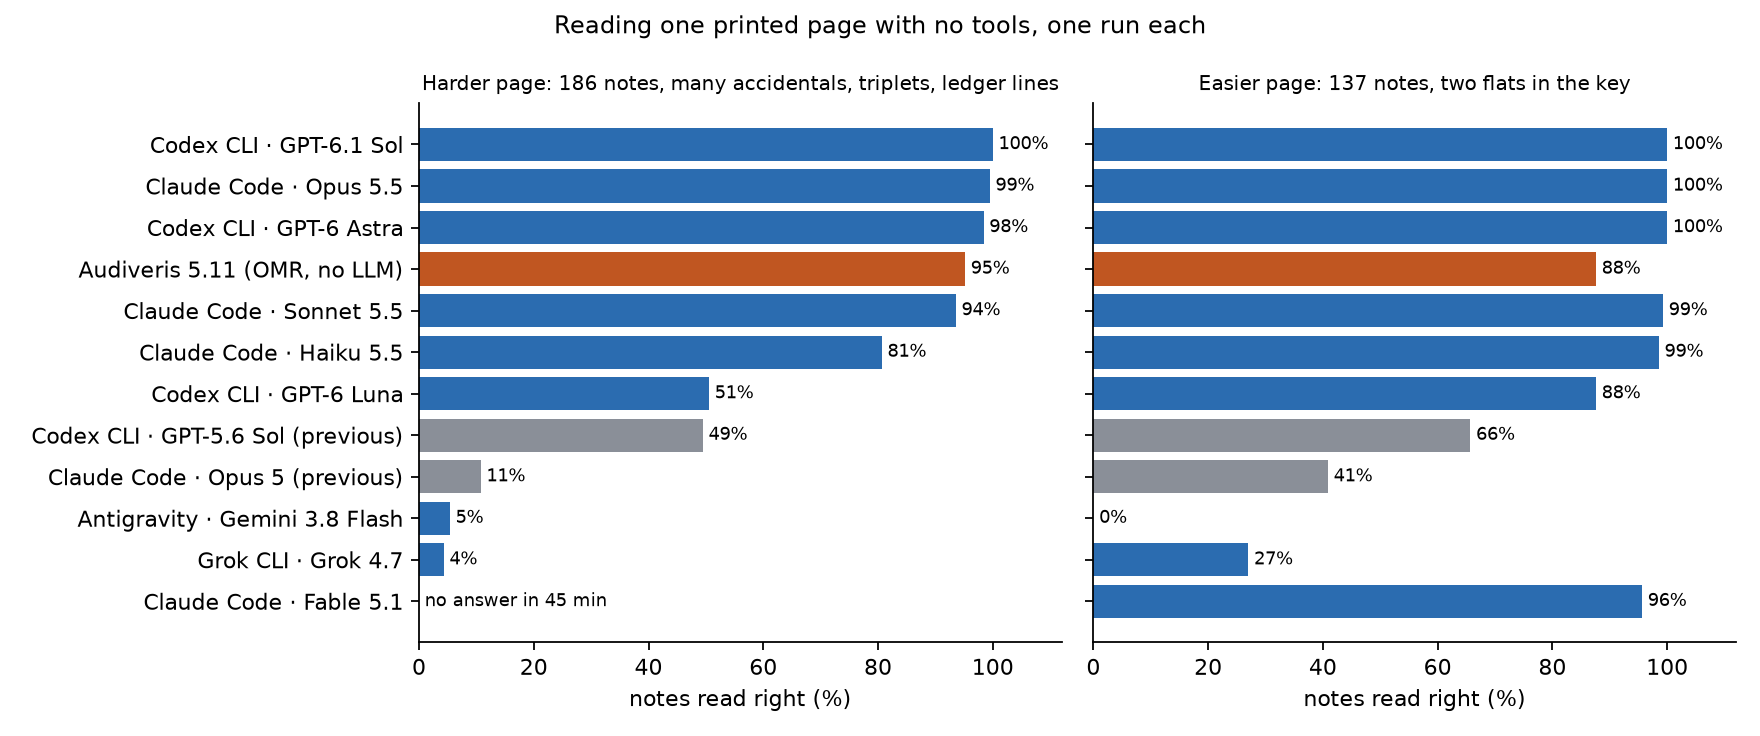
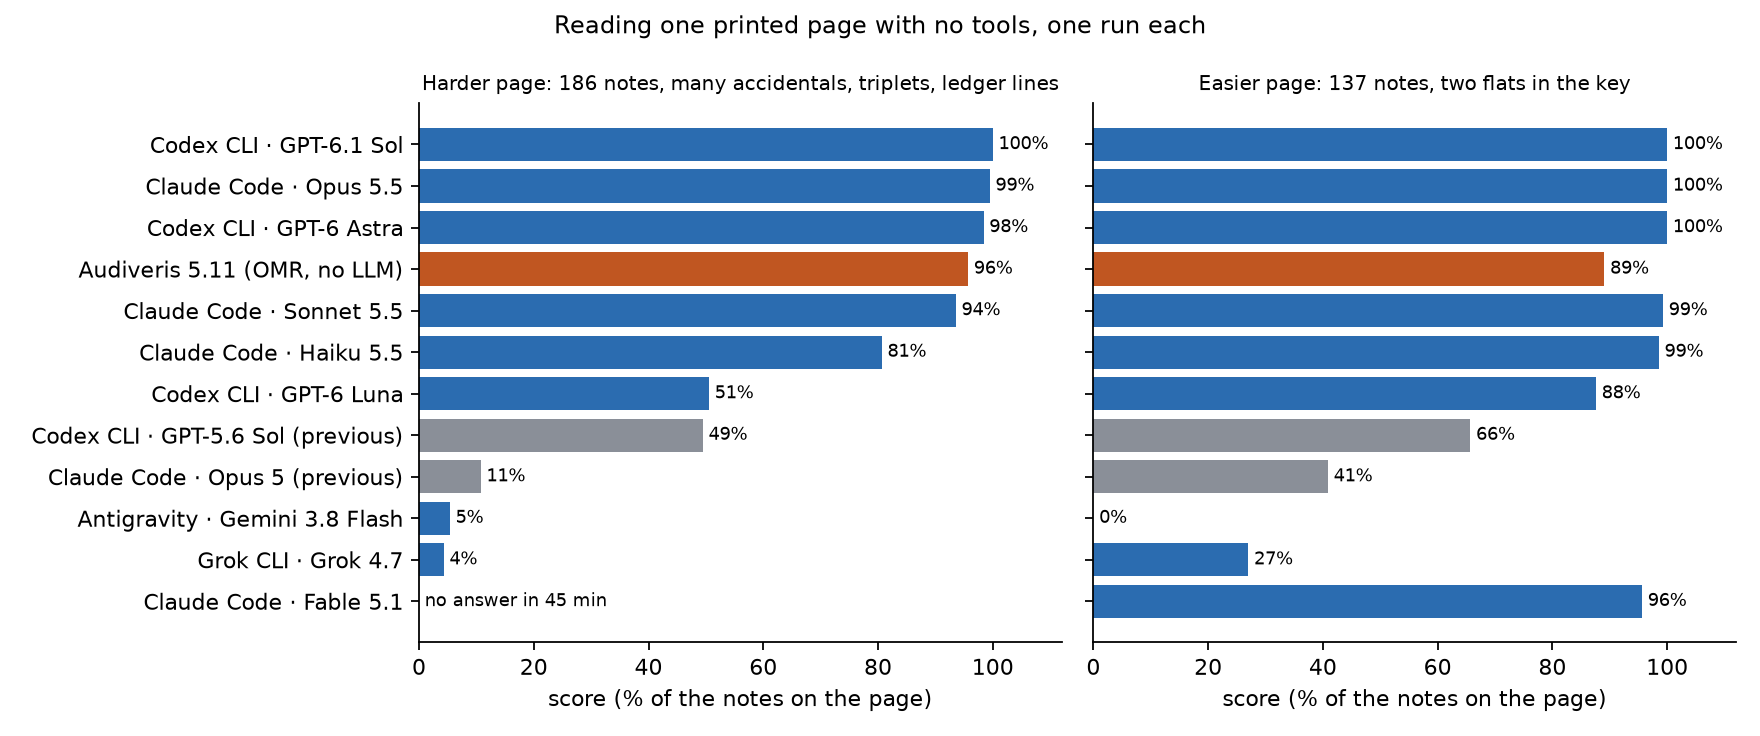
Score OMR output with 6:4 tuplets as triplets; revise the article after review
The converter used to drop any bar Audiveris wrote with a 6:4 tuplet. Those
bars are now scored (Audiveris: 178/186, 122/137, 192/199). The article states
what the score is, scopes its claims to the pages tested, and softens the
section on causes.

diff --git a/docs/make_figures.py b/docs/make_figures.py
@@ -51,7 +51,7 @@ def products_figure():
         vals = [pct(p, page) for p in order]
         bars = ax.barh([NAME[p] for p in order], [v or 0 for v in vals], color=[colour(p) for p in order])
         label_bars(ax, bars, vals, missing='no answer in 45 min')
-        ax.set_xlim(0, 112); ax.set_xlabel('notes read right (%)'); ax.set_title(title, fontsize=9)
+        ax.set_xlim(0, 112); ax.set_xlabel('score (% of the notes on the page)'); ax.set_title(title, fontsize=9)
         ax.spines[['top', 'right']].set_visible(False)
     fig.suptitle('Reading one printed page with no tools, one run each', fontsize=11)
     fig.tight_layout(); fig.savefig(OUT / 'products.png', dpi=160); plt.close(fig)
@@ -72,7 +72,7 @@ def generations_figure():
         ax.set_title(cli, fontsize=10)
         ax.legend(frameon=False, fontsize=9, loc='upper center', bbox_to_anchor=(0.5, -0.1), ncol=2)
         ax.spines[['top', 'right']].set_visible(False)
-    axes[0].set_ylabel('notes read right (%)')
+    axes[0].set_ylabel('score (% of the notes on the page)')
     fig.suptitle('One model generation apart, same pages, same CLI', fontsize=11)
     fig.tight_layout(); fig.savefig(OUT / 'generations.png', dpi=160); plt.close(fig)
 
@@ -85,7 +85,7 @@ def paired_figure(filename, title, products, left, right, left_label, right_labe
     b = ax.barh([i - 0.2 for i in y], [v or 0 for v in rv], 0.4, color=LIGHT, label=right_label)
     label_bars(ax, a, lv); label_bars(ax, b, rv, missing=missing)
     ax.set_yticks(list(y)); ax.set_yticklabels([NAME[p] for p in products]); ax.invert_yaxis()
-    ax.set_xlim(0, 118); ax.set_xlabel('notes read right (%)'); ax.set_title(title, fontsize=10)
+    ax.set_xlim(0, 118); ax.set_xlabel('score (% of the notes on the page)'); ax.set_title(title, fontsize=10)
     ax.legend(frameon=False, fontsize=9, loc='upper center', bbox_to_anchor=(0.5, -0.22), ncol=2); ax.spines[['top', 'right']].set_visible(False)
     fig.tight_layout(); fig.savefig(OUT / filename, dpi=160); plt.close(fig)
 

diff --git a/tests/test_material.py b/tests/test_material.py
@@ -79,6 +79,28 @@ class VerifyTest(unittest.TestCase):
 
 
 class ReaderTest(unittest.TestCase):
+    def test_six_in_the_time_of_four_is_read_as_triplets(self):
+        # Audiveris exports runs of triplet eighths as 6:4; the timing equals 3:2 and must not cost the bar.
+        page = make_page('solo', 1)
+        back = read_back(page)
+        changed = 0
+        for bar in back['bars']:
+            for ev in bar['events']:
+                if ev['tmod'] == (3, 2):
+                    ev['tmod'] = (6, 4)
+                    changed += 1
+        self.assertGreater(changed, 0)
+        got = R.parse_text(to_reading_text(back))
+        self.assertEqual(got.unparsed, [])
+        self.assertEqual(score(R.parse_text(answer_text(page)), got, page.fifths)['note_errors'], 0)
+
+    def test_other_tuplets_are_still_outside_the_format(self):
+        page = make_page('solo', 1)
+        back = read_back(page)
+        ev = next(e for b in back['bars'] for e in b['events'] if e['tmod'])
+        ev['tmod'] = (5, 4)
+        self.assertEqual(len(R.parse_text(to_reading_text(back)).unparsed), 1)
+
     def test_bar_outside_the_format_becomes_an_unread_bar(self):
         page = make_page('lead', 3)
         back = read_back(page)

diff --git a/src/sheetcheck/musicxml.py b/src/sheetcheck/musicxml.py
@@ -253,7 +253,8 @@ def to_reading_text(score: dict, fifths: int | None = None) -> str:
                     continue
                 at += ev['dur']
                 if ev['tmod'] and group is None:
-                    if ev['tmod'][0] != 3:
+                    # 6:4 and 12:8 are how some programs write a run of triplets; the timing is the same as 3:2.
+                    if ev['tmod'][0] * 2 != ev['tmod'][1] * 3:
                         raise ValueError(f"tuplet {ev['tmod']} is outside the reading format")
                     toks.append('{3')
                     group, filled = True, F(0)

diff --git a/docs/article.md b/docs/article.md
@@ -1,30 +1,34 @@
 # Sheet-music reading went from 20% to 99.8% in one model generation
 
-*Draft. All numbers are from 12 October 2026, one run per cell.*
+*Three generated pages, one run each: a small measurement, not a benchmark. Numbers are from 12 October 2026. Draft.*
 
-I transcribe jazz solos into MuseScore with AI coding agents. Until this summer I worked by one rule: do not trust the model's eyes for pitches. An optical music recognition (OMR) program produced the draft, and the model only repaired it. In August a model reading a page on its own got 62 of 138 pitches right on a page where the OMR program got all 138.
+I transcribe jazz solos into MuseScore with AI coding agents. Until this summer I worked by one rule: do not trust the model's eyes for pitches. An optical music recognition (OMR) program produced the draft, and the model only repaired it. My notes from August say a model reading a page on its own got 62 of 138 pitches right, on a page where the OMR program got all 138.
 
-This month I tested that rule on pages no model can have seen before. It no longer holds.
+This month I tested that rule on pages generated on the day of the test. It no longer holds.
 
-- On three freshly generated pages (522 notes), Claude Opus 5 read 20% of the notes correctly. Opus 5.5, in the same CLI, read 99.8%. GPT-5.6 Sol read 49%; GPT-6.1 Sol read all 522.
-- The smallest current Claude model, Haiku 5.5, reads far better than the previous flagship.
-- The best current models, with no tools at all, are more accurate than the OMR program I used to rely on.
+- On three generated pages (522 notes), Claude Opus 5 scored 20%. Opus 5.5, in the same CLI, scored 99.8%. GPT-5.6 Sol scored 49%; GPT-6.1 Sol scored 100%.
+- Haiku 5.5, the smallest model in the current Claude family, scored far higher than Opus 5 on the two pages both read.
+- On these pages the best current models, only looking at the image, scored higher than the OMR program I used to rely on.
 
-![Notes read right by each product on two pages](img/products.png)
+![Score of each product on two pages](img/products.png)
 
 ## What I measured
 
-**The pages.** A script generates each page from a random seed: one melodic line in 4/4 with chord symbols, 32 bars, in the style of a jazz line (scale runs, approach notes, triplets, ties, rests). The music is in no training set and has no copyright owner. MuseScore engraves the page. A second program then reads back the MusicXML that MuseScore exports and compares it with the answer, including every accidental MuseScore chose to print, so the answer and the image cannot drift apart.
+If you don't read music: a bar is a short group of beats, a system is one row of music across the page, and the height of a note on the five lines gives its pitch.
+
+**The pages.** A script generates each page from a random seed: one melodic line in 4/4 with chord symbols, 32 bars, in the style of a jazz line (scale runs, triplets, ties, rests, many sharps and flats). The pages were made for this test, after every model here was released, so none of them can have been memorised. MuseScore, a notation program, engraves the page. A second program then reads back the MusicXML file that MuseScore exports from the engraved score and compares it with the answer, including every accidental MuseScore chose to print. That check works on MuseScore's own description of what it drew, not on the pixels.
 
 **The task.** The agent gets the page image and returns one line of text per bar: pitches, note values, ties, triplets and chord symbols. It may look at the image and do nothing else. Claude Code runs with only its file-reading tool. Codex CLI gets the image attached and a read-only sandbox. I checked the tool logs of every Claude Code and Codex run: one read of the image, or no tool use.
 
-**The score.** A note is right when its position in the bar, its pitch and its length all match. Errors are counted as an edit distance per bar, so a wrong, missing or extra note costs one. A bar the agent skipped costs all its notes.
+**The score.** A note is right when its position in the bar, its pitch and its length all match. Errors are counted as an edit distance per bar, so a wrong, missing or extra note costs one, and a skipped bar costs all its notes. The score for a page is the number of notes in the answer minus those errors, never below zero. For the weaker products this is lower than the count of notes they got right, because extra notes cost too. Pitches are worked out with the answer's key signature. Whether the agent named the key, the ties and the chord symbols are scored separately.
 
 **The products.** A "product" is a model inside its vendor's CLI, at the reasoning effort I normally use (Claude Code: xhigh, with Haiku at the CLI default; Codex CLI: max). The results describe that pair, not the model alone.
 
 Everything is one run per cell. Read small differences as noise.
 
 ## Results
+
+Score out of the notes on the page:
 
 | Product | Page A (186 notes) | Page B (137) | Page C (199) |
 |---|---|---|---|
@@ -39,25 +43,27 @@ Everything is one run per cell. Read small differences as noise.
 | Claude Code · Opus 5 (previous generation) | 20 | 56 | 30 |
 | Grok CLI · Grok 4.7 | 8 | 37 | – |
 | Antigravity · Gemini 3.8 Flash | 10 | 0 | – |
-| Audiveris 5.11 (OMR, no language model) | 177 | 120 | 190 |
+| Audiveris 5.11 (OMR, no language model) | 178 | 122 | 192 |
 
-Page A and page C are the harder kind: no key signature, many accidentals, triplets, ledger lines. Page B has two flats in the key and simpler rhythm. A dash means I did not run that cell.
+Pages A and C are the harder kind: no key signature, many accidentals, triplets, notes far above the staff. Page B has two flats in the key and simpler rhythm. A dash means I did not run that cell.
+
+Audiveris lost its points to triplets that are not on the page, missed grace notes, and the last bar of each page, which it left out.
 
 ### One generation apart
 
 ![Previous and current generation on three pages](img/generations.png)
 
-The gap shows on all three pages for both vendors. Scale alone does not explain it: Haiku 5.5 reads 81% and 99% of pages A and B, where Opus 5 reads 11% and 41%.
+The gap shows on all three pages for both pairs. Model size alone does not explain it: Haiku 5.5 scored 81% and 99% on pages A and B, where Opus 5 scored 11% and 41%.
 
-The previous-generation models read every chord symbol on all three pages. Text was never the problem. What changed is reading where a notehead sits on the staff.
+The previous-generation models read every chord symbol on all three pages, so plain text was not their problem. Their errors are in the notes.
 
 ### The errors that remain
 
-The best models now make the kind of slip a person makes when sight-reading.
+In these runs the best models' remaining errors were single wrong pitches.
 
 ![Opus 5.5 read the circled F flat as D flat](img/misread-bar8.png)
 
-Opus 5.5 made one error on page A: it read the circled F♭ as D♭, a third too low. D♭ is a chord tone of the E♭7 above it. F♭ is not.
+Opus 5.5 made one error on page A: it read the circled F♭ as D♭, a lower note. D♭ belongs to the chord printed above it (E♭7). F♭ does not.
 
 ![GPT-6 Astra read the three circled notes one step low](img/misread-bar27.png)
 
@@ -67,13 +73,13 @@ GPT-6 Astra read these three notes one step low. Neither model marked these note
 
 ![The same page at 300 dpi and at 620 pixels wide](img/lowres.png)
 
-I shrank page A to 620 pixels wide, about what a screen capture of a PDF gives you. Opus 5.5 fell to 77%, and the OMR program produced no output. The agents were not allowed to zoom here. In real work I let them crop and enlarge each system first.
+I shrank page A to a 620×877 JPEG. Opus 5.5 fell to 77%, and Audiveris exported nothing. The agents were not allowed to zoom here. In real work I let them crop and enlarge each system first.
 
 ### A handwritten-style font
 
 ![Default font and handwritten-style font](img/font.png)
 
-To see whether the models had only learned one engraving style, I re-engraved pages A and B with MuseScore's MuseJazz style, which imitates handwriting. The notes are identical. GPT-6.1 Sol still read every note on both pages. Opus 5.5 dropped from 185 to 168 on page A and from 137 to 136 on page B. The OMR program fell apart completely.
+To see whether the models had only learned one engraving style, I re-engraved pages A and B with MuseScore's MuseJazz style, which imitates handwriting. The notes are identical. GPT-6.1 Sol again scored 100% on both pages. Opus 5.5 dropped from 185 to 168 on page A and from 137 to 136 on page B. Audiveris got no bar right on either page.
 
 This is a font, not handwriting. I did not test real handwritten scores.
 
@@ -81,12 +87,12 @@ This is a font, not handwriting. I did not test real handwritten scores.
 
 I don't know. Here is what the numbers allow.
 
-- **It is not scale.** The smallest model of the current Claude family beats the largest of the previous one.
-- **Two vendors moved in the same generation.** The Gemini and Grok models I tested did not, but I tested Gemini 3.8 Flash and Grok 4.7 through their CLIs, not every model those vendors have.
-- **It is not one font.** GPT-6.1 Sol reads a handwritten-style font as well as the default one.
-- **It is recent.** A [blog post from May](https://www.artfish.ai/p/can-ai-read-music-part-2) found that Opus 4.7, GPT 5.4 and Gemini 3.0 Pro could not reliably name a single note. A [paper from July](https://arxiv.org/abs/2607.05769) found Gemini 3.1 Pro far behind a dedicated OMR model.
+- **Model size alone does not explain it.** Haiku 5.5 outscored Opus 5 by a wide margin.
+- **Both pairs I tested moved.** Opus and Sol each jumped between consecutive versions. I did not test older Gemini or Grok models, so I cannot say whether those moved. The two I did test, Gemini 3.8 Flash and Grok 4.7, scored low.
+- **GPT-6.1 Sol handled both engraving styles** I tried.
+- **Earlier public tests point the same way**, on different material. A [blog post from May](https://www.artfish.ai/p/can-ai-read-music-part-2) found that Opus 4.7, GPT 5.4 and Gemini 3.0 Pro could not reliably name a single note. A [paper from July](https://arxiv.org/abs/2607.05769) found Gemini 3.1 Pro far behind a dedicated OMR model.
 
-My guess is that music notation, or something close to it, became part of training or evaluation between these generations. Pages like mine are cheap to make in any quantity from symbolic music, which is all my generator does. A general gain in fine-grained vision would look the same from outside, though, and I found no release note that mentions either. If you know what changed, I would like to hear it.
+My guess is that music notation, or something close to it, became part of training or evaluation between these versions. Pages like mine are cheap to make in any quantity from symbolic music, which is all my generator does. A general gain in fine-grained vision would look the same from outside, though, and I did not separate the CLI's image handling, perception and reasoning. I found no release note that mentions any of it. If you know what changed, I would like to hear it.
 
 ## What this changed in how I work
 
@@ -98,7 +104,9 @@ Now, for a clean print:
 2. A program compares the two readings bar by bar.
 3. I look only at the bars where they differ.
 
-On page A, Opus 5.5 and Astra differ in three bars: 8, 27 and 28. Those are exactly the bars one of them got wrong. A model's own `?` marks are not enough for this. On these pages Opus 5.5, Astra and Haiku 5.5 left their wrong notes unmarked, and Sonnet 5.5 marked two of its four wrong bars on page A.
+On page A, leaving the `?` marks aside, the readings of Opus 5.5 and Astra differ in three bars: 8, 27 and 28. Those are exactly the bars where one of them was wrong. Two readers can still share an error, so agreement narrows the checking without proving anything.
+
+A model's own `?` marks did not do this job. In the clean default-font runs, Opus 5.5, Astra and Haiku 5.5 left their wrong notes unmarked, and Sonnet 5.5 marked two of its four wrong bars on page A. The marks were better on harder input: on the low-resolution page Opus 5.5 marked 11 of its 13 wrong bars.
 
 The automatic checks stay: every bar must add up to the time signature, and the MusicXML must survive a round trip through MuseScore. OMR is still useful on a clean print as a cheap third reading.
 
